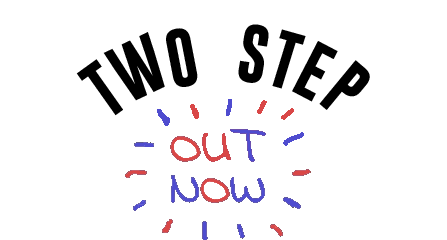
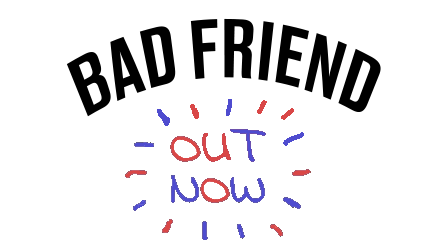
bad-friend

Changed region(s): [[0.1454, 0.0583, 0.8725, 0.4958]]

diff --git a/Components/Releases.js b/Components/Releases.js
@@ -9,16 +9,16 @@ const displayBaseCase = useBreakpointValue({ base: true, md: false })
             <Box width="100%" position="relative" backgroundColor={color} pb="8">
                 <Center>
                     <Box maxW="300px" width="95%" position="relative" backgroundColor={color} pb="5">
-                        <Link href="https://ffm.to/twostep" target="_blank"><Image src="../caroline20.png" className="first-image"/></Link>
+                        <Link href="https://ffm.to/fritzhager-badfriend" target="_blank"><Image src="../caroline20.png" className="first-image"/></Link>
                     </Box>
                 </Center>
                 <Box width="100%" position="relative" backgroundColor={color} display="flex" justifyContent="center">
                 <Box className="first-image" maxW="250px" width="42%" position="relative" backgroundColor="white" border="3px solid black" padding="5px" textAlign="center" display="flex" alignItems="center" justifyContent="center">
-                    <Link href="https://ffm.to/twostep" target="_blank"><Text fontWeight="bold" fontSize="20" color="black" >LISTEN TO THE NEW SINGLE</Text></Link>
+                    <Link href="https://ffm.to/fritzhager-badfriend" target="_blank"><Text fontWeight="bold" fontSize="20" color="black" >LISTEN TO THE NEW SINGLE</Text></Link>
                 </Box>
                 <Box width="30px" />
                 <Box className="first-image" maxW="250px" width="42%" position="relative" backgroundColor="white" border="3px solid black" padding="5px" textAlign="center" display="flex" alignItems="center" justifyContent="center">
-                    <Link href="https://youtu.be/2keHpD_H7KM" target="_blank"><Text fontWeight="bold" fontSize="20" color="black">WATCH THE LATEST VIDEO</Text></Link>
+                    <Link href="https://www.youtube.com/watch?v=m2nbzXcXoWA" target="_blank"><Text fontWeight="bold" fontSize="20" color="black">WATCH THE LATEST VIDEO</Text></Link>
                 </Box>
                 </Box>
             </Box>
@@ -27,15 +27,15 @@ const displayBaseCase = useBreakpointValue({ base: true, md: false })
             <Box width="100%" position="relative" backgroundColor={color} pb="8">
             <Box width="100%" position="relative" backgroundColor={color} display="flex" justifyContent="center">
             <Box top="80px" className="first-image" maxW="200px" maxH="100px" width="42%" position="relative" backgroundColor="white" border="3px solid black" padding="5px" textAlign="center" display="flex" alignItems="center" justifyContent="center">
-                <Link href="https://ffm.to/twostep" target="_blank"><Text fontWeight="bold" fontSize="20" color="black" >LISTEN TO THE NEW SINGLE</Text></Link>
+                <Link href="https://ffm.to/fritzhager-badfriend" target="_blank"><Text fontWeight="bold" fontSize="20" color="black" >LISTEN TO THE NEW SINGLE</Text></Link>
             </Box>
             <Center>
                 <Box maxW="450px" width="80%" position="relative" backgroundColor={color} pb="5">
-                    <Link href="https://ffm.to/twostep" target="_blank"><Image src="../caroline20.png" alt="Caroline" className="first-image"/></Link>
+                    <Link href="https://ffm.to/fritzhager-badfriend" target="_blank"><Image src="../caroline20.png" alt="Caroline" className="first-image"/></Link>
                 </Box>
             </Center>
             <Box top="80px" className="first-image" maxW="200px" maxH="100px" width="42%" position="relative" backgroundColor="white" border="3px solid black" padding="5px" textAlign="center" display="flex" alignItems="center" justifyContent="center">
-                <Link href="https://youtu.be/2keHpD_H7KM" target="_blank"><Text fontWeight="bold" fontSize="20" color="black">WATCH THE LATEST VIDEO</Text></Link>
+                <Link href="https://www.youtube.com/watch?v=m2nbzXcXoWA" target="_blank"><Text fontWeight="bold" fontSize="20" color="black">WATCH THE LATEST VIDEO</Text></Link>
             </Box>
             </Box>
         </Box>

diff --git a/Data/dataThree.js b/Data/dataThree.js
@@ -1,3 +1,3 @@
-export const images = ['./Covers/twoStepCover.jpg', './Covers/Caroline.jpg', './Covers/heartsalign.jpg', './Covers/cover2.jpg','./Covers/cover2.jpg', './Covers/cover2.jpg', './Covers/cover2.jpg', './Covers/cover2.jpg'];
-export const links = ['https://ffm.to/twostep', 'https://ffm.to/carolinefh', 'https://fritzhager.lnk.to/HeartsAlign', 'https://smithmusic.ffm.to/662582270426_frtizhager', 'https://smithmusic.ffm.to/662582270426_frtizhager', 'https://smithmusic.ffm.to/662582270426_frtizhager', 'https://smithmusic.ffm.to/662582270426_frtizhager', 'https://smithmusic.ffm.to/662582270426_frtizhager'];
-export const names = ['Two Step', 'Caroline', 'Hearts Align', 'All My Friends', 'Second-hand Friend', 'Maybe I Think I Love You', 'Inconsequential Love', 'The Ocean'];
+export const images = ['./Covers/bad-friend-cover.png', './Covers/twoStepCover.jpg', './Covers/Caroline.jpg', './Covers/heartsalign.jpg', './Covers/cover2.jpg','./Covers/cover2.jpg', './Covers/cover2.jpg', './Covers/cover2.jpg', './Covers/cover2.jpg'];
+export const links = ['https://ffm.to/fritzhager-badfriend', 'https://ffm.to/twostep', 'https://ffm.to/carolinefh', 'https://fritzhager.lnk.to/HeartsAlign', 'https://smithmusic.ffm.to/662582270426_frtizhager', 'https://smithmusic.ffm.to/662582270426_frtizhager', 'https://smithmusic.ffm.to/662582270426_frtizhager', 'https://smithmusic.ffm.to/662582270426_frtizhager', 'https://smithmusic.ffm.to/662582270426_frtizhager'];
+export const names = ['Bad Friend', 'Two Step', 'Caroline', 'Hearts Align', 'All My Friends', 'Second-hand Friend', 'Maybe I Think I Love You', 'Inconsequential Love', 'The Ocean'];
